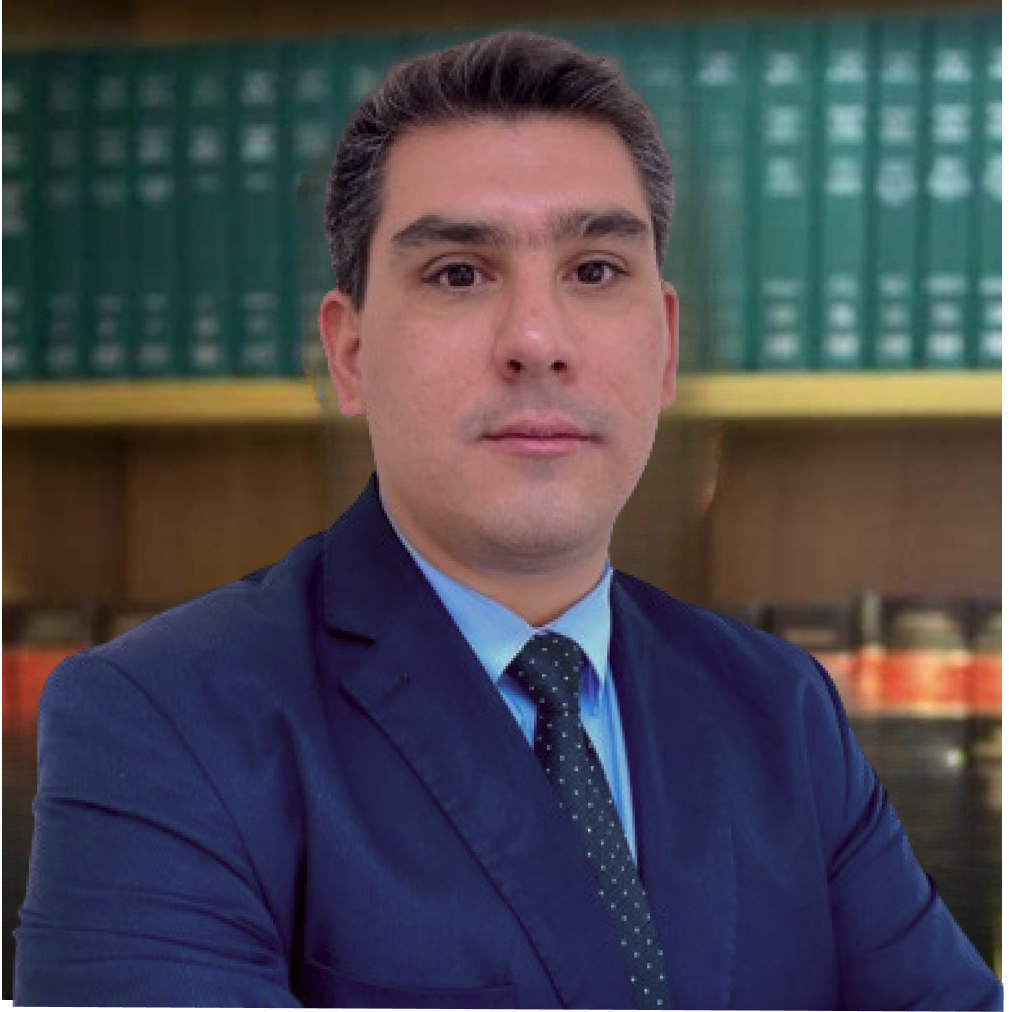
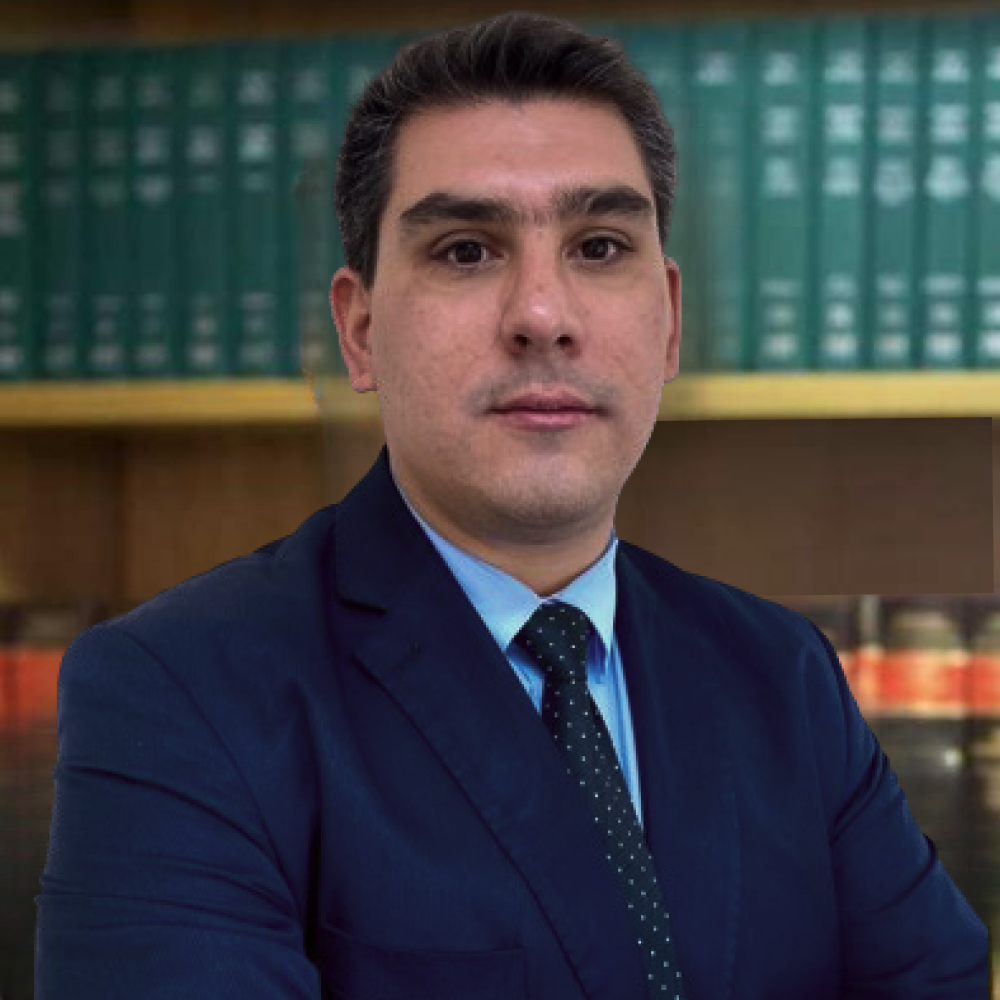
fix: ajustado icones em baixa qualidade e foto de marcelo que estava com resolução baixa

diff --git a/src/components/header/header.tsx b/src/components/header/header.tsx
@@ -1,7 +1,7 @@
 import Style from "./style";
-import Instagram from "../../assets/img/Instagram.webp"
-import Facebook from "../../assets/img/Facebook.webp"
-import Whatsapp from "../../assets/img/Whatsapp.webp"
+import Instagram from "../../assets/svg/Instagram.svg"
+import Facebook from "../../assets/svg/Facebook.svg"
+import Whatsapp from "../../assets/svg/WhatsappGreen.svg"
 import Logo from "../../assets/svg/Logo.svg"
 import { sendToFacebook, sendToInstagram, sendToWpp } from "../../utils/send-to-social";
 import { GenericButton } from "../ui/generic-button";
@@ -21,9 +21,9 @@ export default function Header() {
             </Style.Box1>
 
             <Style.Box2>
-                <GenericButton onClick={sendToWpp}> <img src={Whatsapp} alt="Whatsapp" /></GenericButton>
-                <GenericButton onClick={sendToInstagram}><img src={Instagram} alt="Instagram" /></GenericButton>
-                <GenericButton onClick={sendToFacebook}> <img src={Facebook} alt="Facebook" /></GenericButton>
+                <GenericButton onClick={sendToWpp}> <img className="icon" src={Whatsapp} alt="Icone do Whatsapp" /></GenericButton>
+                <GenericButton onClick={sendToInstagram}><img className="icon" src={Instagram} alt="Icone do Instagram" /></GenericButton>
+                <GenericButton onClick={sendToFacebook}> <img className="icon" src={Facebook} alt="Icone do Facebook" /></GenericButton>
             </Style.Box2>
 
         </Style.Container>

diff --git a/src/components/footer/footer.tsx b/src/components/footer/footer.tsx
@@ -1,10 +1,10 @@
 import Style from "./style";
 import Logo from "../../assets/svg/Logo.svg"
-import Whatsapp from "../../assets/img/Whatsapp.webp"
-import Gmail from "../../assets/img/Gmail.webp"
+import Whatsapp from "../../assets/svg/WhatsappGreen.svg"
+import Gmail from "../../assets/svg/Gmail.svg"
 import Location from "../../assets/img/Location.webp"
-import Instagram from "../../assets/img/Instagram.webp"
-import Facebook from "../../assets/img/Facebook.webp"
+import Instagram from "../../assets/svg/Instagram.svg"
+import Facebook from "../../assets/svg/Facebook.svg"
 import { GenericButton } from "../ui/generic-button";
 import { sendToFacebook, sendToGmail, sendToInstagram, sendToWpp } from "../../utils/send-to-social";
 

diff --git a/src/utils/section-2-constants.ts b/src/utils/section-2-constants.ts
@@ -11,7 +11,7 @@ export const Section2Contents = [
         img: Trabalhista,
         alt: "Direito Trabalhista",
         side: "left",
-        subareas: ["PROBLEMAS COM SALÁRIO", "HORA EXTRA", "INSALUBRIDADE OU PERICULOSIDADE", "ASSÉDIO NO TRABALHO", "DOENÇA OU ACIDENTE DE TRABALHO", "RECONHECIMENTO DE VÍNCULO TRABALHISTA", "RESCIÇÃO INDIRETA DE CONTRATO DE TRABALHO"]
+        subareas: ["PROBLEMAS COM SALÁRIO", "HORA EXTRA", "INSALUBRIDADE OU PERICULOSIDADE", "ASSÉDIO NO TRABALHO", "DOENÇA OU ACIDENTE DE TRABALHO", "RECONHECIMENTO DE VÍNCULO TRABALHISTA", "RESCISÃO INDIRETA DE CONTRATO DE TRABALHO"]
     },
     {
         title: "INSS & Aposentadoria",

diff --git a/src/components/button/button.tsx b/src/components/button/button.tsx
@@ -1,6 +1,6 @@
 import { ComponentProps } from "react";
 import Style from "./style";
-import Whatsapp from "../../assets/img/Whatsapp.webp"
+import Whatsapp from "../../assets/svg/Whatsapp.svg"
 import { sendToWpp } from "../../utils/send-to-social";
 
 type ButtonProps = ComponentProps<'button'>
@@ -9,7 +9,7 @@ export default function Button({ children }: ButtonProps) {
     return (
         <Style.Container onClick={sendToWpp}>
             {children}
-            <img src={Whatsapp} alt="Whatsapp" />
+            <img src={Whatsapp} alt="Icone do Whatsapp" />
         </Style.Container>
     )
 }

diff --git a/src/components/card-3/card-3.tsx b/src/components/card-3/card-3.tsx
@@ -1,7 +1,7 @@
 import Style from "./style";
-import Whatsapp from "../../assets/img/Whatsapp.webp"
-import Gmail from "../../assets/img/Gmail.webp"
-import Linkedin from "../../assets/img/Linkedin.webp"
+import Whatsapp from "../../assets/svg/WhatsappGreen.svg"
+import Gmail from "../../assets/svg/Gmail.svg"
+import Linkedin from "../../assets/svg/Linkedin.svg"
 import { GenericButton } from "../ui/generic-button";
 
 interface Card3Props {

diff --git a/src/utils/section-5constants.ts b/src/utils/section-5constants.ts
@@ -1,6 +1,6 @@
-import Whatsapp from "../assets/img/Whatsapp.webp"
-import Gmail from "../assets/img/Gmail.webp"
-import Instagram from "../assets/img/Instagram.webp"
+import Whatsapp from "../assets/svg/WhatsappGreen.svg"
+import Gmail from "../assets/svg/Gmail.svg"
+import Instagram from "../assets/svg/Instagram.svg"
 import { sendToGmail, sendToInstagram } from "./send-to-social"
 
 export const Section5Contents = [

diff --git a/src/components/header/style.ts b/src/components/header/style.ts
@@ -18,6 +18,13 @@ const Container = styled.header`
         font-weight: 500;
     }
 
+    .icon{
+        width: 3.2rem;
+        height: 3.2rem;
+        z-index: 2;
+    }
+    
+
     @media screen and (max-width: 420px){
         h6{
             font-size: 1.4rem;

diff --git a/src/components/button/style.ts b/src/components/button/style.ts
@@ -14,8 +14,8 @@ const Container = styled.button`
     cursor: pointer;
 
     img{
-        width: 4rem;
-        height: 4rem;
+        width: 3.2rem;
+        height: 3.2rem;
     }
 
     @media screen and (max-width: 800px){
